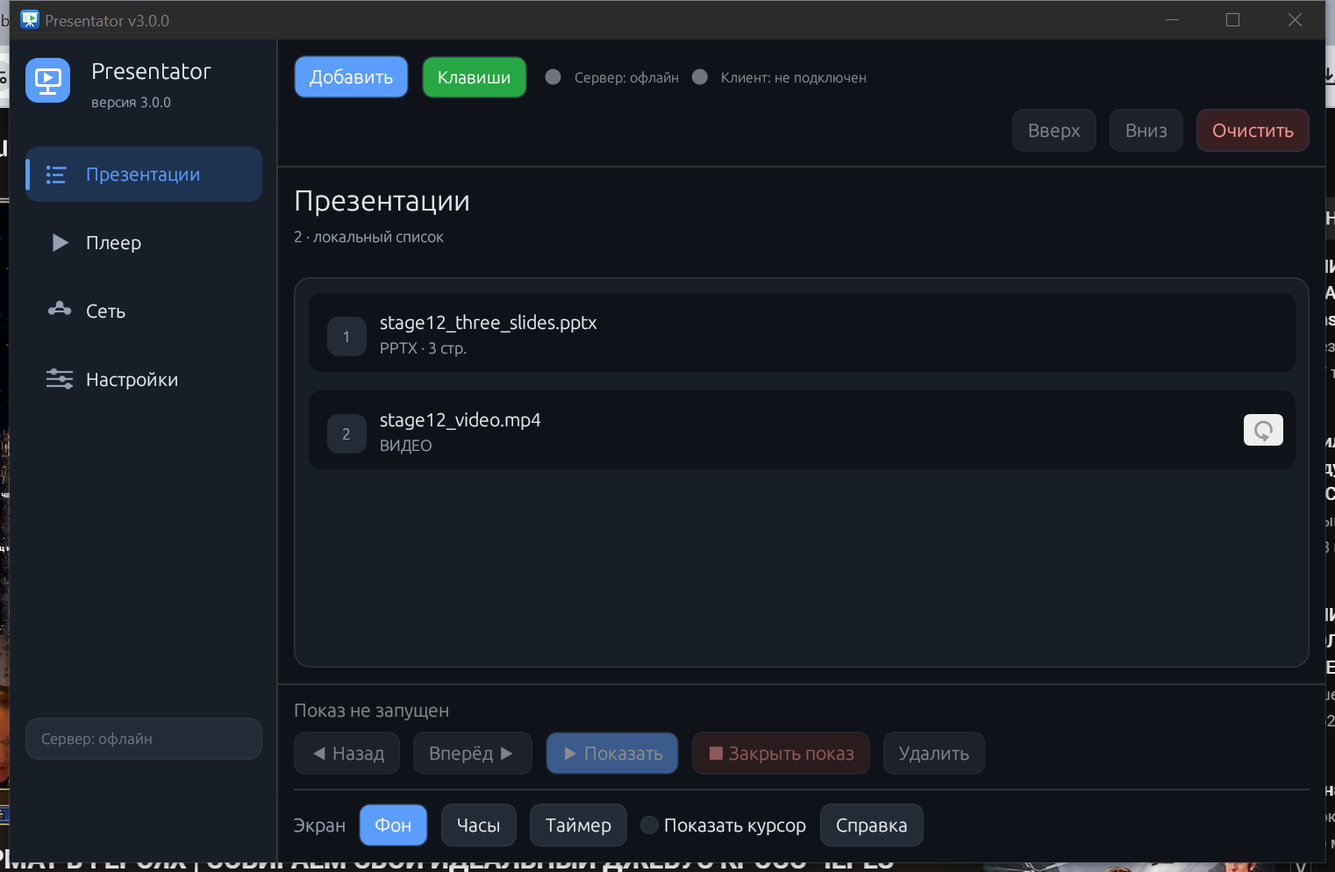
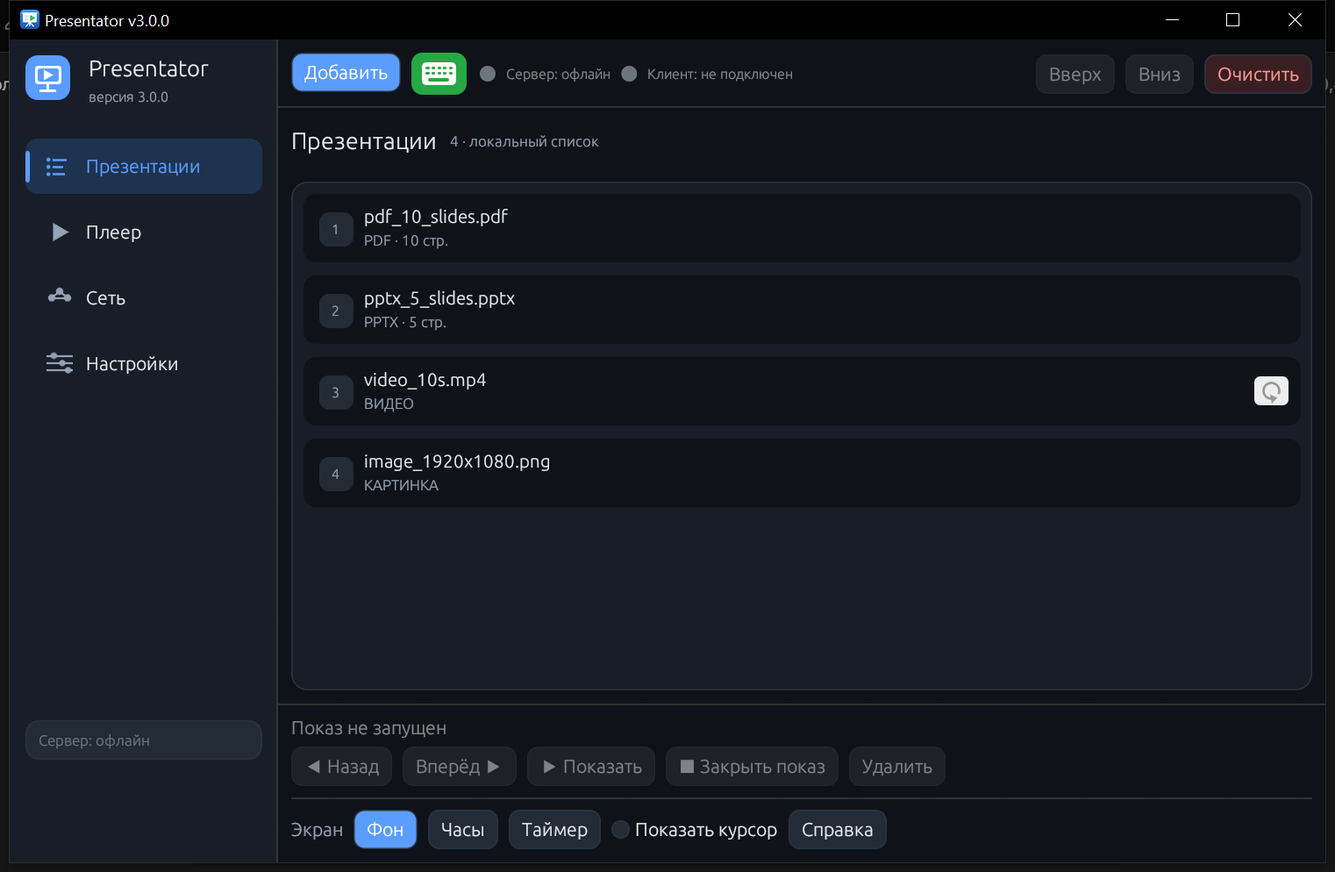
ui: компактные шапка, список и превью; иконка клавиатуры

diff --git a/src/ui.rs b/src/ui.rs
@@ -122,6 +122,38 @@ fn nav_item(ui: &mut egui::Ui, label: &str, icon: NavIcon, on: bool) -> egui::Re
     resp
 }
 
+/// Кнопка-переключатель «клавиатура»: значок рисуем сами, цвет показывает состояние.
+fn keyboard_button(ui: &mut egui::Ui, on: bool, tip: &str) -> egui::Response {
+    let (rect, resp) = ui.allocate_exact_size(egui::vec2(42.0, 32.0), egui::Sense::click());
+    let p = ui.painter();
+    p.rect_filled(rect, 8.0, if on { GREEN } else { ui_surface_alt() });
+    if resp.hovered() {
+        p.rect_stroke(
+            rect,
+            8.0,
+            egui::Stroke::new(1.5_f32, if on { Color32::WHITE } else { ui_accent() }),
+            egui::StrokeKind::Inside,
+        );
+    }
+    let body = egui::Rect::from_center_size(rect.center(), egui::vec2(26.0, 17.0));
+    p.rect_filled(body, 3.0, if on { Color32::WHITE } else { ui_surface() });
+    let key = if on { GREEN } else { ui_muted() };
+    for row in 0..2 {
+        for col in 0..5 {
+            let x = body.left() + 3.0 + col as f32 * 4.4;
+            let y = body.top() + 3.0 + row as f32 * 4.0;
+            p.rect_filled(egui::Rect::from_min_size(egui::pos2(x, y), egui::vec2(2.8, 2.4)), 0.6, key);
+        }
+    }
+    // Пробел — длинная клавиша внизу.
+    p.rect_filled(
+        egui::Rect::from_min_size(body.left_top() + egui::vec2(5.0, 11.8), egui::vec2(16.0, 2.4)),
+        0.6,
+        key,
+    );
+    resp.on_hover_text(tip)
+}
+
 /// Единый стиль интерфейса (оставлено для тестов и совместимости).
 #[cfg(test)]
 pub(crate) fn configure_operator_style(ctx: &egui::Context) {
@@ -147,7 +179,7 @@ pub(crate) const HELP: &[(&str, &[(&str, &str)])] = &[
         ("Показать курсор", "Галочка внизу, рядом со «Справкой»: курсор мыши на экране показа виден, пока мышь двигают, и сам прячется через 3 с. В PowerPoint так можно щёлкнуть по видео в слайде. Работает и у клиента; после перезапуска — снова выключено."),
         ("Увеличение слайда", "Справа от превью: «+» / «−» — крупнее и мельче (до 400 %), стрелки — сдвинуть увеличенный слайд, кнопка в центре — снова весь слайд. На миниатюре «Сейчас» оранжевой рамкой — то, что видно на экране. С клавиатуры: «+» / «−», Ctrl+стрелки. Перелистнули — слайд снова целиком. PDF, картинки и PowerPoint; у PowerPoint увеличенный слайд — неподвижная картинка (анимация и видео в слайде не идут), первое увеличение слайда — через долю секунды."),
         ("Двойной Esc", "На экране показа: закрыть показ. На часах или таймере — вернуть фон. На фоне — убрать сцену. Одиночный Esc ничего не делает."),
-        ("Кнопка ⌨", "Зелёная — клавиши в окне программы управляют показом. Серая — не управляют (на самом экране показа клавиши работают всегда)."),
+        ("Кнопка с клавиатурой", "Зелёная — клавиши в окне программы управляют показом. Серая — не управляют (на самом экране показа клавиши работают всегда)."),
     ]),
     ("Экран сервера: фон, часы, таймер", &[
         ("Фон", "Закрыть показ и оставить на экране показа фоновую картинку."),
@@ -546,18 +578,17 @@ impl App {
                 self.add_dialog(&ctx);
             }
             // Переключатель «управление с клавиатуры»: зелёный — клавиши в этом окне управляют показом.
-            let (fill, tip) = if self.cfg.keyboard {
-                (GREEN, "Клавиатура включена: стрелки и PageUp/PageDown листают слайды, пробел — следующий шаг или старт/пауза видео, цифры + Enter — переход к слайду. Нажмите, чтобы выключить.")
+            let tip = if self.cfg.keyboard {
+                "Клавиатура включена: стрелки и PageUp/PageDown листают слайды, пробел — следующий шаг или старт/пауза видео, цифры + Enter — переход к слайду. Нажмите, чтобы выключить."
             } else {
-                (GRAY, "Клавиатура выключена: клавиши в этом окне показом не управляют. Нажмите, чтобы включить.")
+                "Клавиатура выключена: клавиши в этом окне показом не управляют. Нажмите, чтобы включить."
             };
-            let key_btn = egui::Button::new(RichText::new("Клавиши").size(13.0).color(Color32::WHITE)).fill(fill).corner_radius(8.0).min_size(egui::vec2(76.0, 0.0));
-            if ui.add(key_btn).on_hover_text(tip).clicked() {
+            if keyboard_button(ui, self.cfg.keyboard, tip).clicked() {
                 self.cfg.keyboard = !self.cfg.keyboard;
                 self.ui.goto_buf.clear();
                 self.save_cfg();
             }
-            ui.add_space(4.0);
+            ui.add_space(2.0);
             if self.net.connected || self.net.server_online {
                 // Состояние сервера: зелёный — норма, жёлтый — внимание, красный — проблема.
                 let (level, rows) = self.health_rows();
@@ -585,40 +616,41 @@ impl App {
                 indicator(ui, OFF, "Сервер: офлайн");
                 indicator(ui, OFF, "Клиент: не подключен");
             }
-
-        });
-        if !matches!(self.ui.tab, Tab::List | Tab::Player) { return; }
-        ui.horizontal(|ui| {
-            ui.with_layout(egui::Layout::right_to_left(egui::Align::Center), |ui| {
-                // На вкладке «Плеер» кнопки работают со списком плеера.
-                let player = self.ui.tab == Tab::Player;
-                let tip = if player { "Очистить список плеера" } else { "Очистить список презентаций" };
-                if btn(ui, "Очистить", RED).on_hover_text(tip).clicked() {
-                    let (n, what) = if player { (view.audio.tracks.len(), "музыки из плеера") } else { (view.items.len(), "презентаций") };
-                    if n > 0 {
-                        let cmd = if player { Cmd::AudioClear } else { Cmd::Clear };
-                        self.ui.confirm = Some((format!("Очистить список: удалить все файлы {what} ({n} шт.)? Файлы удалятся и на сервере."), "Очистить", cmd));
+            // Справа — действия со списком (на «Презентациях» и «Плеере»).
+            if matches!(self.ui.tab, Tab::List | Tab::Player) {
+                ui.with_layout(egui::Layout::right_to_left(egui::Align::Center), |ui| {
+                    let player = self.ui.tab == Tab::Player;
+                    let tip = if player { "Очистить список плеера" } else { "Очистить список презентаций" };
+                    if btn(ui, "Очистить", RED).on_hover_text(tip).clicked() {
+                        let (n, what) = if player { (view.audio.tracks.len(), "музыки из плеера") } else { (view.items.len(), "презентаций") };
+                        if n > 0 {
+                            let cmd = if player { Cmd::AudioClear } else { Cmd::Clear };
+                            self.ui.confirm = Some((format!("Очистить список: удалить все файлы {what} ({n} шт.)? Файлы удалятся и на сервере."), "Очистить", cmd));
+                        }
                     }
-                }
-                let sel = if player {
-                    self.player.selected.filter(|id| view.audio.tracks.iter().any(|t| t.id == *id))
-                } else {
-                    self.ui.selected.filter(|id| view.items.iter().any(|i| i.id == *id))
-                };
-                let mv = |id, up| if player { Cmd::AudioMove { id, up } } else { Cmd::Move { id, up } };
-                if ui.add_enabled(sel.is_some(), cbutton("Вниз", GRAY)).clicked() {
-                    self.act(mv(sel.unwrap(), false));
-                }
-                if ui.add_enabled(sel.is_some(), cbutton("Вверх", GRAY)).clicked() {
-                    self.act(mv(sel.unwrap(), true));
-                }
-            });
+                    let sel = if player {
+                        self.player.selected.filter(|id| view.audio.tracks.iter().any(|t| t.id == *id))
+                    } else {
+                        self.ui.selected.filter(|id| view.items.iter().any(|i| i.id == *id))
+                    };
+                    let mv = |id, up| if player { Cmd::AudioMove { id, up } } else { Cmd::Move { id, up } };
+                    if ui.add_enabled(sel.is_some(), cbutton("Вниз", GRAY)).clicked() {
+                        self.act(mv(sel.unwrap(), false));
+                    }
+                    if ui.add_enabled(sel.is_some(), cbutton("Вверх", GRAY)).clicked() {
+                        self.act(mv(sel.unwrap(), true));
+                    }
+                });
+            }
         });
     }
 
     /// Статус и команда восстановления фокуса видны оператору для удалённого показа.
     pub(crate) fn ppt_focus_bar(&mut self, ctx: &egui::Context, view: &StateMsg) {
         if !self.net.connected || view.active.is_none() { return; }
+        // «Всё в порядке» не занимает строку: место дороже. Полоса появляется,
+        // только когда фокус потерян или восстанавливается.
+        if matches!(view.ppt_focus, PptFocus::Ok | PptFocus::Unknown) { return; }
         let (notice, window, can_restore, color) = {
             let tint = |light: Color32, dark: Color32| if is_dark() { dark } else { light };
             match &view.ppt_focus {
@@ -630,8 +662,8 @@ impl App {
             }
         };
         egui::TopBottomPanel::top("ppt_focus_status")
-            .exact_height(36.0)
-            .frame(egui::Frame::new().fill(color).inner_margin(egui::Margin::symmetric(8, 3)))
+            .exact_height(30.0)
+            .frame(egui::Frame::new().fill(color).inner_margin(egui::Margin::symmetric(8, 2)))
             .show(ctx, |ui| {
                 ui.with_layout(egui::Layout::left_to_right(egui::Align::Center)
                     .with_main_align(egui::Align::Center), |ui| {
@@ -937,10 +969,9 @@ impl App {
             Tab::Settings => ("Настройки", "оформление, экран показа, запуск и журнал".into()),
         };
         ui.horizontal(|ui| {
-            ui.vertical(|ui| {
-                ui.label(RichText::new(title).size(22.0).strong().color(ui_ink()));
-                ui.label(RichText::new(subtitle).size(12.0).color(ui_muted()));
-            });
+            ui.label(RichText::new(title).size(18.0).strong().color(ui_ink()));
+            ui.add_space(2.0);
+            ui.add(egui::Label::new(RichText::new(subtitle).size(11.5).color(ui_muted())).truncate());
             if let Some((text, color)) = now_playing(&view.audio) {
                 ui.with_layout(egui::Layout::right_to_left(egui::Align::Center), |ui| {
                     if ui.add(cbutton("■", RED)).on_hover_text("Остановить музыку (плавно)").clicked() {
@@ -950,7 +981,7 @@ impl App {
                 });
             }
         });
-        ui.add_space(8.0);
+        ui.add_space(4.0);
     }
 
     /// Диалог «Добавить» — общий для верхней панели и пустого списка.
@@ -973,7 +1004,7 @@ impl App {
             .fill(ui_surface())
             .stroke(egui::Stroke::new(1.0_f32, ui_line()))
             .corner_radius(12.0)
-            .inner_margin(8.0)
+            .inner_margin(6.0)
             .show(ui, |ui| {
                 ui.set_min_size(ui.available_size());
                 if view.items.is_empty() {
@@ -984,8 +1015,8 @@ impl App {
                     for (n, it) in view.items.iter().enumerate() {
                         let is_active = view.active == Some(it.id);
                         let is_sel = self.ui.selected == Some(it.id);
-                        let (slot, resp) = ui.allocate_exact_size(egui::vec2(ui.available_width(), 66.0), egui::Sense::click());
-                        let rect = slot.shrink2(egui::vec2(2.0, 3.0));
+                        let (slot, resp) = ui.allocate_exact_size(egui::vec2(ui.available_width(), 56.0), egui::Sense::click());
+                        let rect = slot.shrink2(egui::vec2(2.0, 2.0));
                         let bg = if is_active {
                             ui_live()
                         } else if is_sel {
@@ -1000,36 +1031,36 @@ impl App {
                         if is_active || is_sel {
                             p.rect_filled(
                                 egui::Rect::from_min_size(
-                                    rect.left_top() + egui::vec2(0.0, 10.0),
-                                    egui::vec2(4.0, rect.height() - 20.0),
+                                    rect.left_top() + egui::vec2(0.0, 8.0),
+                                    egui::vec2(4.0, rect.height() - 16.0),
                                 ),
                                 2.0,
                                 if is_active { GREEN } else { ui_accent() },
                             );
                         }
                         // Номер файла в аккуратном квадрате слева.
-                        let badge = egui::Rect::from_min_size(rect.left_top() + egui::vec2(14.0, 18.0), egui::vec2(30.0, 30.0));
+                        let badge = egui::Rect::from_min_size(rect.left_top() + egui::vec2(12.0, 14.0), egui::vec2(26.0, 26.0));
                         p.rect_filled(
                             badge,
-                            8.0,
+                            7.0,
                             if is_active { GREEN } else if is_sel { ui_accent() } else { ui_surface_alt() },
                         );
                         p.text(
                             badge.center(),
                             egui::Align2::CENTER_CENTER,
                             format!("{}", n + 1),
-                            egui::FontId::proportional(12.0),
+                            egui::FontId::proportional(11.0),
                             if is_active || is_sel { Color32::WHITE } else { ui_muted() },
                         );
                         let is_video = it.kind == "ВИДЕО";
-                        let right = if is_video { 58.0 } else { 14.0 };
+                        let right = if is_video { 52.0 } else { 12.0 };
                         let title_rect = egui::Rect::from_min_max(
-                            egui::pos2(rect.left() + 54.0, rect.top() + 12.0),
-                            egui::pos2(rect.right() - right, rect.top() + 33.0),
+                            egui::pos2(rect.left() + 46.0, rect.top() + 8.0),
+                            egui::pos2(rect.right() - right, rect.top() + 27.0),
                         );
                         let status_rect = egui::Rect::from_min_max(
-                            egui::pos2(rect.left() + 54.0, rect.top() + 34.0),
-                            egui::pos2(rect.right() - right, rect.bottom() - 10.0),
+                            egui::pos2(rect.left() + 46.0, rect.top() + 27.0),
+                            egui::pos2(rect.right() - right, rect.bottom() - 7.0),
                         );
                         let (info, col) = if !it.status.is_empty() {
                             (it.status.clone(), if it.ready || it.status.starts_with("обработка") { ui_muted() } else { RED })
@@ -1058,10 +1089,10 @@ impl App {
                         } else {
                             ""
                         };
-                        row_label(p, title_rect, &it.name, 14.5, ui_ink(), false);
-                        row_label(p, status_rect, &format!("{state_label}{info}"), 12.0, col, false);
+                        row_label(p, title_rect, &it.name, 13.5, ui_ink(), false);
+                        row_label(p, status_rect, &format!("{state_label}{info}"), 11.5, col, false);
                         if is_video {
-                            let r = egui::Rect::from_center_size(rect.right_center() - egui::vec2(24.0, 0.0), egui::vec2(30.0, 24.0));
+                            let r = egui::Rect::from_center_size(rect.right_center() - egui::vec2(22.0, 0.0), egui::vec2(26.0, 22.0));
                             let icon = ui.interact(r, ui.id().with(("repeat", it.id)), egui::Sense::click());
                             repeat_icon(ui.painter(), r, it.repeat, icon.hovered());
                             let tip = if it.repeat {

diff --git a/src/ui_preview.rs b/src/ui_preview.rs
@@ -54,7 +54,7 @@ impl App {
     /// Превью у оператора: миниатюры предыдущего, текущего и следующего слайда.
     pub(crate) fn preview_bar(&mut self, ui: &mut egui::Ui, view: &StateMsg) {
         let Some(id) = view.active else { return };
-        const GAP: f32 = 12.0;
+        const GAP: f32 = 8.0;
         // Увеличение — у PDF и картинок (их рисуем сами); панель справа от миниатюр.
         let kind = view.items.iter().find(|i| i.id == id).map(|i| i.kind.as_str()).unwrap_or("");
         let zoomable = kind == "PDF" || kind == KIND_IMAGE || kind == "PPTX";
@@ -62,17 +62,17 @@ impl App {
         // Три миниатюры 16:9 по ширине окна, но не выше 112 точек.
         // Учитываем и промежутки между элементами строки — иначе панель увеличения уезжала за край.
         let spacing = 4.0 * ui.spacing().item_spacing.x;
-        let h = ((ui.available_width() - 2.0 * GAP - panel - spacing) / 3.0 * 9.0 / 16.0).clamp(50.0, 112.0);
+        let h = ((ui.available_width() - 2.0 * GAP - panel - spacing) / 3.0 * 9.0 / 16.0).clamp(44.0, 88.0);
         let zview = (view.zoom > 1.0).then_some(view.view);
         // Видео и звук на слайде PowerPoint — списком над миниатюрами, номера — как рамки на «Сейчас».
         if !view.media.is_empty() {
             self.media_list(ui, &view.media);
-            ui.add_space(4.0);
+            ui.add_space(2.0);
         }
         let slot = |ui: &mut egui::Ui, title: String, tex: Option<&egui::TextureHandle>, empty: &str, current: bool| -> egui::Rect {
             ui.vertical(|ui| {
                 let color = if current { ui_ink() } else { ui_muted() };
-                ui.label(RichText::new(title).size(12.0).color(color).strong());
+                ui.label(RichText::new(title).size(11.0).color(color).strong());
                 // Слайды не 16:9 вписываются в ту же рамку.
                 let frame = egui::vec2(h * 16.0 / 9.0, h);
                 let (rect, _) = ui.allocate_exact_size(frame, egui::Sense::hover());

diff --git a/src/main.rs b/src/main.rs
@@ -731,12 +731,14 @@ impl eframe::App for App {
             ctx.request_repaint_after(screen::timer_tick(&view.timer, self.timer_extra()));
         }
 
-        let margin = egui::Frame::new().fill(ui_bg()).inner_margin(12.0);
+        let margin = egui::Frame::new().fill(ui_bg()).inner_margin(10.0);
+        // Превью — компактнее по вертикали: над списком и без лишних полей.
+        let preview_margin = egui::Frame::new().fill(ui_bg()).inner_margin(egui::Margin::symmetric(10, 6));
         // Левое меню — разделы окна; верхняя и нижняя панели занимают оставшуюся ширину.
         egui::SidePanel::left("nav")
             .resizable(false)
             .exact_width(204.0)
-            .frame(egui::Frame::new().fill(ui_surface()).inner_margin(egui::Margin::symmetric(12, 14)))
+            .frame(egui::Frame::new().fill(ui_surface()).inner_margin(egui::Margin::symmetric(12, 12)))
             .show(ctx, |ui| self.sidebar(ui, &view));
         egui::TopBottomPanel::top("top").frame(margin).show(ctx, |ui| self.top_bar(ui, &view));
         self.ppt_focus_bar(ctx, &view);
@@ -748,11 +750,11 @@ impl eframe::App for App {
         egui::TopBottomPanel::bottom("bottom").frame(margin).show(ctx, |ui| self.bottom_bar(ui, &view));
         // Превью — над нижней панелью, пока открыта презентация (у видео превью нет).
         if self.ui.tab == Tab::List && view.active.is_some() && view.video.is_none() {
-            egui::TopBottomPanel::bottom("preview").frame(margin).show(ctx, |ui| self.preview_bar(ui, &view));
+            egui::TopBottomPanel::bottom("preview").frame(preview_margin).show(ctx, |ui| self.preview_bar(ui, &view));
         }
         egui::CentralPanel::default().frame(margin).show(ctx, |ui| {
             self.tab_row(ui, &view);
-            ui.add_space(8.0);
+            ui.add_space(6.0);
             match self.ui.tab {
                 Tab::List => self.list(ui, &view),
                 Tab::Player => self.player_panel(ui, &view),

diff --git a/src/ui_settings.rs b/src/ui_settings.rs
@@ -113,7 +113,7 @@ impl App {
                 section(ui, "Управление");
                 let mut kb = self.cfg.keyboard;
                 if ui
-                    .checkbox(&mut kb, "Клавиши в окне программы управляют показом (то же, что кнопка ⌨ вверху)")
+                    .checkbox(&mut kb, "Клавиши в окне программы управляют показом (то же, что кнопка с клавиатурой вверху)")
                     .on_hover_text("Стрелки и PageUp/PageDown — слайды, пробел — следующий шаг или старт/пауза видео, цифры + Enter — переход к слайду")
                     .changed()
                 {

diff --git a/src/theme.rs b/src/theme.rs
@@ -106,9 +106,9 @@ pub(crate) fn apply_titlebar(_hwnd: isize, _dark: bool) {}
 pub(crate) fn configure(ctx: &egui::Context) {
     ctx.set_theme(if is_dark() { egui::Theme::Dark } else { egui::Theme::Light });
     ctx.style_mut(|s| {
-        s.spacing.button_padding = egui::vec2(12.0, 8.0);
-        s.spacing.item_spacing = egui::vec2(10.0, 8.0);
-        s.spacing.interact_size = egui::vec2(38.0, 32.0);
+        s.spacing.button_padding = egui::vec2(10.0, 6.0);
+        s.spacing.item_spacing = egui::vec2(8.0, 6.0);
+        s.spacing.interact_size = egui::vec2(36.0, 30.0);
         for (kind, size) in [
             (egui::TextStyle::Body, 14.5),
             (egui::TextStyle::Button, 14.0),

diff --git a/PROJECT.md b/PROJECT.md
@@ -321,6 +321,7 @@ Presentator показывает презентации (PDF, PPTX, видео) 
 | Ревью и исправления 2.5.4 (05.11.2026) | Дом (Windows): код-ревью диапазона 2.4.0→2.5.3, `cargo build --release` без предупреждений, `cargo test --release` — все юнит- и флоу-тесты зелёные (нативные и e2e — `--ignored`, не запускались); PDFium из exe распаковался, SHA-256 сошёлся (тест `pdfium_bundle`) | ✅ найдено и исправлено: `reveal`/`fit_window` искали сцену по заголовку (две копии на одном ПК путали окна), своё главное окно давало ложную «потерю фокуса», кнопка «Фокус» была активна при неизвестном состоянии. **Не проверено вживую:** показ глазами на экране (в т.ч. двухмониторный сервер), реальный эффект исключения своего окна, антивирус на распаковку PDFium |
 | Версия 3.0.0 (05.11.2026) | Windows: `cargo check --all-targets` без предупреждений, `cargo test` — 399 прошло / 0 упало / 29 нативных и e2e пропущены, `cargo clippy` без ошибок; снимки светлой и тёмной темы и пустого списка на изолированном `APPDATA`; набор тестовых файлов `tests/fixtures/3.0` (25 файлов) | ✅ сайдбар, темы, карточки списка и пустое состояние выглядят как задумано; `App` разделён на подсистемы без изменения поведения; SHA-256 libmpv, защита `load_list`, логирование ошибок сохранения. Тестовые файлы: PowerPoint открыл 5/3/3 слайда без восстановления, программа распознала PDF 10 стр., PPTX 5 и 3 стр., видео, картинку и «видео по ссылке: 1». **Не проверено:** тёмный заголовок окна на обычной Windows (в среде сборки DWM вернул успех, но заголовок остался светлым), двухмониторный показ |
 | Сеть и удалённое управление 3.0 (05.11.2026) | Release-сервер и release-клиент 3.0.0 на `127.0.0.1:16022`, отдельные `APPDATA`, режим «в окне»; штатный `tests::e2e` (1 passed: неверный пароль, подключение, очистка, загрузка, open/next/prev/next); GUI-клиент: подключение, загрузка `pdf_10_slides.pdf`, список и превью, двойной щелчок → `Open { id: 1 }`, «Вперёд» → `Next` | ✅ сервер записал команды, клиент показал «Слайд 2 из 10», сцена сервера — слайд 2; снимки `docs/screenshots/network_*.png`. **Не проверено:** два физических ПК через брандмауэр, клиент 2.5.4 ↔ сервер 3.0.0, переключение на резерв |
+| Компактная компоновка 3.0 (06.11.2026) | Уменьшены шапка раздела и верхняя панель (одна строка), строки списка — 56 px и шрифт 13,5/11,5, превью — до 88 px с меньшими отступами; полоса «фокус в порядке» скрыта, появляется только при потере; кнопка клавиатуры снова со значком. Снимки `docs/screenshots/light.png`, `dark.png`, `empty.png` | ✅ визуально проверено: список стал выше, шапка и превью компактнее, тёмная тема и тёмный заголовок окна работают |
 | Картинка фона `background.png` (1818×1020) | 08.10.2026: снимок экрана | ✅ на весь экран |
 | Второй монитор (показ не на основном), разный масштаб мониторов | — | ❌ не проверено |
 | Клиент и сервер на разных компьютерах (брандмауэр) | — | ❌ не проверено |

diff --git a/docs/releases/3.0.0.md b/docs/releases/3.0.0.md
@@ -17,7 +17,12 @@
 - **Две темы.** Светлая (по умолчанию) и тёмная — переключатель в «Настройках»,
   раздел «Оформление». Выбор запоминается в `presentator_settings.json`
   (`"dark": true`), применяется сразу, без перезапуска.
-- **Окно 1000×700** (минимум 900×620) — просторнее для списка и превью.
+- **Окно 1000×700** (минимум 900×620) и компактная компоновка: верхняя панель и
+  заголовок раздела — в одну строку, строки списка 56 px (шрифт 13,5/11,5),
+  превью слайдов ниже (до 88 px) и с меньшими отступами. Полоса «фокус в порядке»
+  больше не занимает отдельную строку — появляется только при потере фокуса.
+- **Кнопка клавиатуры** снова со значком: зелёная — управление включено, серая —
+  выключено; подсказка при наведении.
 - **Список презентаций** — карточки строк: номер в квадрате, название, тип и число
   страниц, цветная полоса текущего показа, отдельная подсветка выбранного файла.
 - **Пустой список** — подсказка и кнопка «Добавить файлы» по центру, а не пустое поле.
@@ -42,7 +47,7 @@
 | `bus` | общий канал событий фоновых потоков |
 
 Публичное поведение и протокол не изменились: это механическая миграция полей,
-все 400+ тестов проходят.
+все 399 тестов проходят.
 
 ## Исправления по ревью 2.5.4
 
@@ -111,10 +116,8 @@ cargo build --release
   [сцена сервера](../screenshots/network_server_slide2.png).
   На снимках клиента полоса «Фокус сменился» — окна сервера были свёрнуты,
   чтобы не перекрывать клиент; в реальном показе сцена держит фокус.
-- Тёмный заголовок окна включается через DWM (`DwmSetWindowAttribute`);
-  на машине сборки снимок показывает светлый системный заголовок — это
-  особенность среды (удалённый рабочий стол/тема Windows), на обычной
-  Windows 10/11 заголовок должен темнеть. Проверить на рабочем компьютере.
+- Тёмный заголовок окна через DWM (`DwmSetWindowAttribute`) — проверен:
+  в тёмной теме заголовок окна тоже тёмный.
 
 ## Известные ограничения
 
